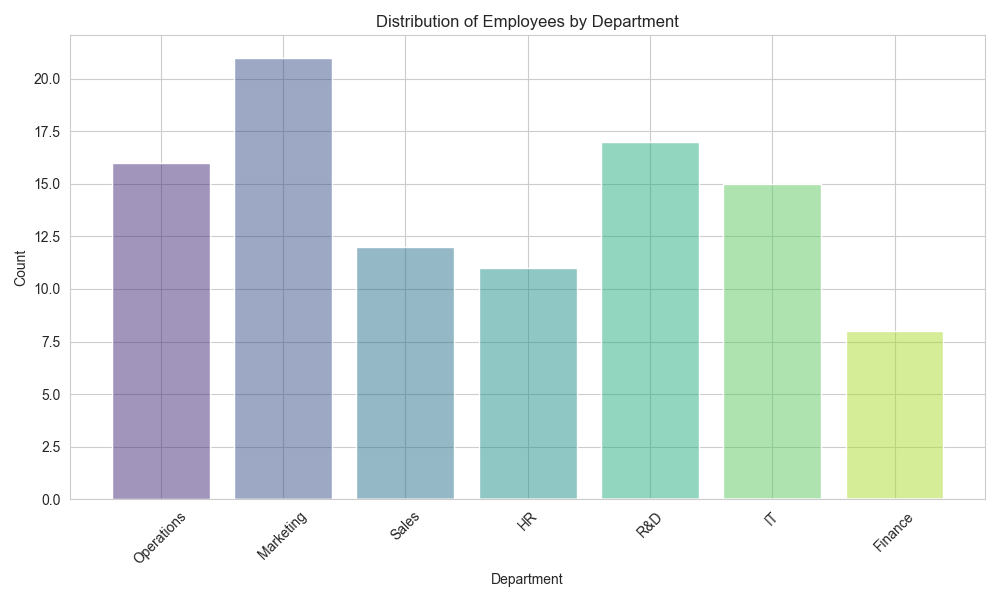
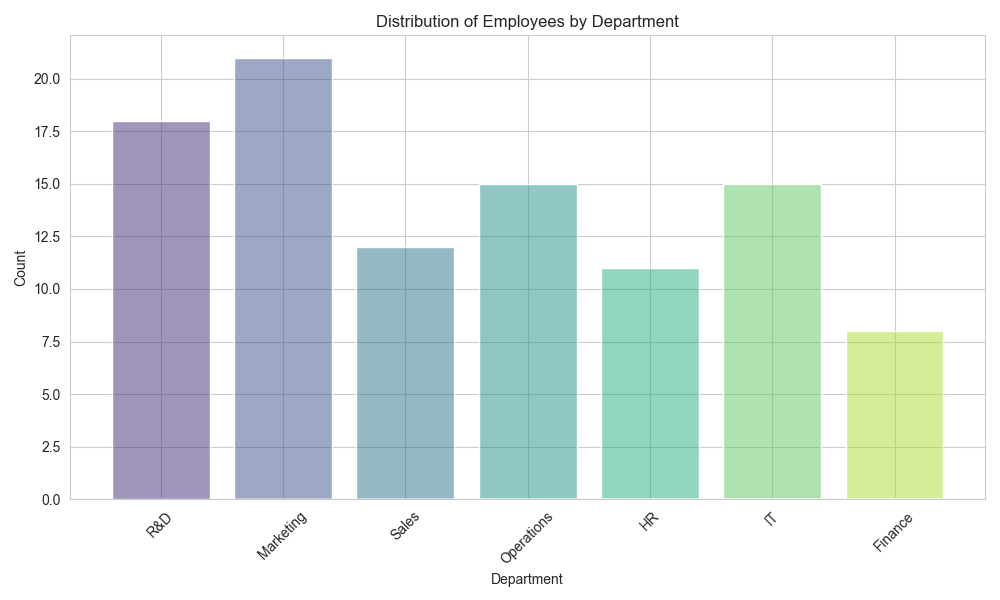
Update data to have 18 R&D employees

diff --git a/index.html b/index.html
@@ -97,7 +97,7 @@ print("Visualization saved as department_dist.png")
     <h2>2. Analysis Output</h2>
     <p>The script calculated the frequency count for the "R&D" department:</p>
     <div class="output">
-        Frequency count for R&D department: 17
+        Frequency count for R&D department: 18
     </div>
 
     <h2>3. Department Distribution Visualization</h2>
